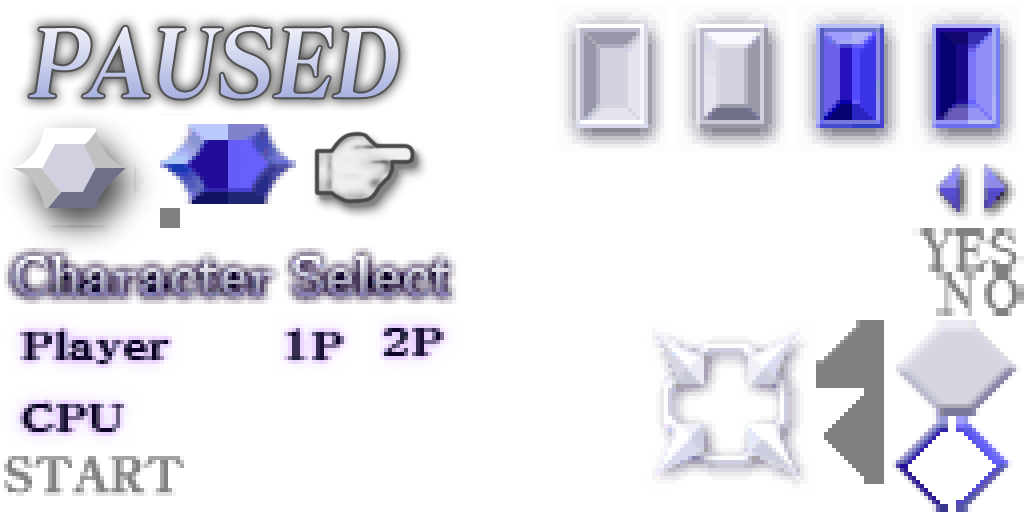
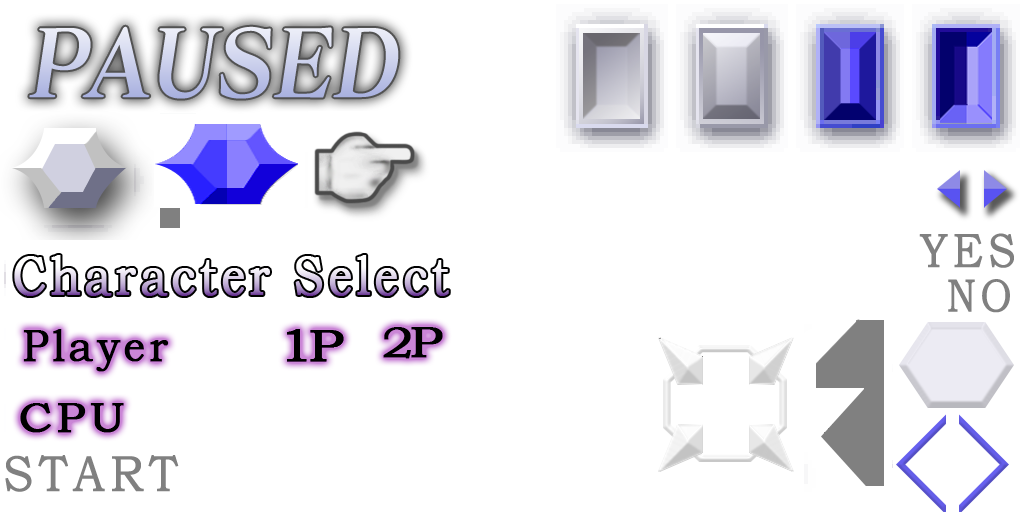
Update 14/10/2024
Redrawn/Upscaled logos, texts and some menus UIs like the Calendar and more.

diff --git a/readme.md b/readme.md
@@ -1,32 +1,24 @@
-# Dissidia 012 Final Fantasy HD Project
+# Dissidia 012 Final Fantasy HD Enhanced Project
 
-Hi everyone.
+![Logo](https://i.imgur.com/cYEq6DH.png)
+### HD Texture Mod for Dissidia 012 on the PSP v0.02
 
-Dissidia is an amazing game and a great pillar for the Final Fantasy community and it needs more love than it had on the PSP.
+This project aims to completely retexture Dissidia 012 Final Fantasy for the PSP. 
 
-The original game was designed to be viewed on a small 480 x 272 PSP display, which is fine for the time, but low-res and blurry on modern display sizes. The current aim is to replace all textures in the game with new hand-made textures that scale nicely to 1080p.
+The original game was designed to be viewed on a small 480 x 272 PSP display, which is fine for the time, but low-res and blurry on modern display sizes. The current aim is to replace all textures in the game<sup>1</sup> with new hand-made textures that scale nicely to 1080p.
 
-![StoryBannerFULL](https://github.com/user-attachments/assets/480e9c16-fef5-4ca3-9881-05230ee1d5cd)
+Originally, the project was going to be a solo undertaking as I spent most of this year unemployed. However, once it finally started gaining steam, I found a very demanding job that leaves me far less free time.
 
-My brother and I started playing it again on the PSVita recently and that's why I decided to continue retexturing and remastering **ABSOLUTELY EVERYTHING**. From textures, tiny pixelated logos to meshes and art.
+The philosophy behind this project is to make as much as possible by hand. Quick and dirty upscales have been done before, but I want this replacement to be THE texture pack for Dissidia 012. Any upscaling that is done is then edited by hand to remove any kind of artifacts to look as clean as possible.
 
-I'm personally running it on an overclocked Nintendo Switch with the 60fps mod, native resolution set to 3x and nothing else but the textures.
 
-I'm running it on a Nintendo Switch with the 60fps mod, native resolution set to 3x and nothing else but the textures.
+<sup>1: Some text uses the PSP's internal system font and to my knowledge, there is no way to upscale it.</sup>
 
-Here's a video of the end result of the background of Story Mode showing the layers on Photoshop, correcting shapes as well as colours and hues:
+Long-term goals include finding a solution for the system font issue and maybe a way to reduce the overall size of the battle UI through hacking. Both of these things are beyond my current abilities, however.
 
-https://imgur.com/a/2lLWegI
 
-This is going to be a long process since I have to redraw so many faces and rewrite most of the text manually, since it doesn't rely on fonts but a png texture with the words in it.
-
-For upscaling purposes I am using a mix of different models in Stabe Diffusion alongside with Photoshop manual retouching as of Liquifying, layering and altering Hues, because I sincerely hate just leaving everything to an AI and not doing anything. We all know that actually looks horrible. This needs the love of human touch and this the best game for my first time doing this.
-
-![Real-Lightning](https://github.com/user-attachments/assets/22541569-4e6d-46c0-9383-dfee16eb622c)
-![Real Lightning](https://github.com/user-attachments/assets/87365a7b-feef-4c6e-a8b7-0ac09869fea7)
-
-Everyone is very welcome to continue to contribute to this amazing thing that is retexturing Dissidia, since Sony has totally abandoned it.
-
-Thank you all and be seeing you here and in _**Eorzea**_!
-
-Link
+# Directions for installation (USA version of the game only):
+<sup>Note: These directions assume that you have PPSSPP installed and a valid USA ROM of the game. You can find instructions on how to rip the game from your own copy online</sup>
+1. Transfer all files to: PPSSPP\memstick\PSP\TEXTURES\ULUS10566
+2. Open PPSSPP and Click on Settings > Tools > Developer Tools and make sure "Replace textures" is checked.
+3. Load the game and ensure the textures are being replaced. If you're not sure, repeat step 2 and compare.
